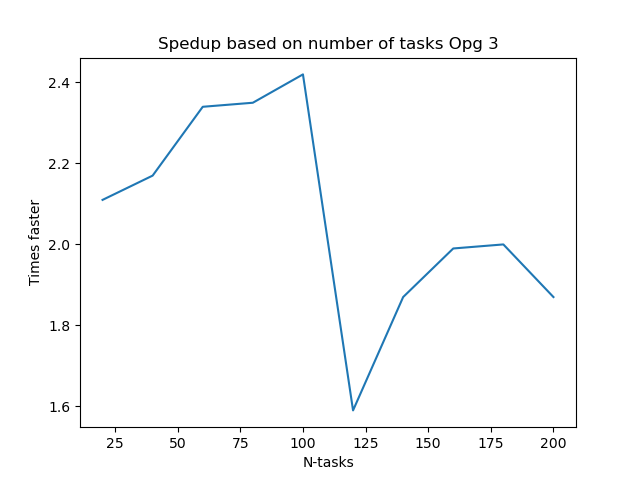
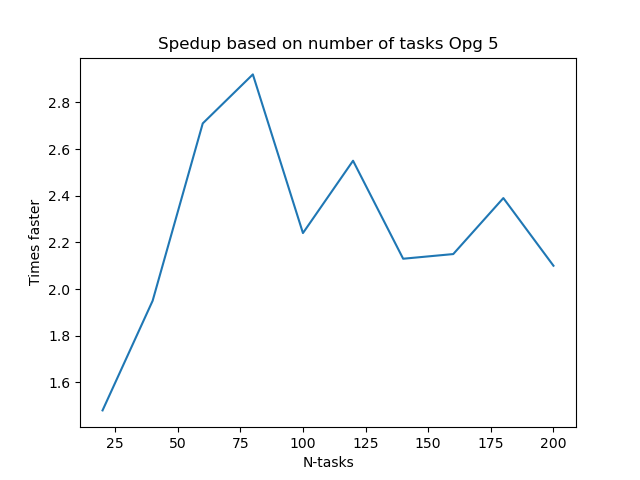
fix

diff --git a/bin/plot3.py b/bin/plot3.py
@@ -2,12 +2,9 @@ import matplotlib.pyplot as plt
 
 x = [20, 40, 60, 80, 100, 120, 140, 160, 180, 200, 300, 400, 1000, 10000]
 # y_3 = [1.67, 2.83, 2.75, 2.11, 2.49, 1.78, 2.72, 2.29, 2.13, 3.25, 2.22, 1.95, 2.62, 2.01] # old
-y_5 = [2.11, 2.17, 2.34, 2.35, 2.42, 1.59, 1.87, 1.99, 2.00, 1.87, 1.92, 1.87, 2.11, 1.95]  # old
+# y_5 = [2.11, 2.17, 2.34, 2.35, 2.42, 1.59, 1.87, 1.99, 2.00, 1.87, 1.92, 1.87, 2.11, 1.95]  # old
 y_3 = [1.56, 1.50, 2.41, 2.54, 2.91, 2.72, 3.28, 2.54, 3.48, 1.59, 2.88, 2.42, 3.43, 1.89]
-
-# y_5 = [
-
-# ]
+y_5 = [1.48, 1.95, 2.71, 2.92, 2.24, 2.55, 2.13, 2.15, 2.39, 2.10, 2.47, 2.09, 2.60, 2.60]
 
 
 def p(y, t):

diff --git a/src/plot3.py b/src/plot3.py
@@ -2,12 +2,9 @@ import matplotlib.pyplot as plt
 
 x = [20, 40, 60, 80, 100, 120, 140, 160, 180, 200, 300, 400, 1000, 10000]
 # y_3 = [1.67, 2.83, 2.75, 2.11, 2.49, 1.78, 2.72, 2.29, 2.13, 3.25, 2.22, 1.95, 2.62, 2.01] # old
-y_5 = [2.11, 2.17, 2.34, 2.35, 2.42, 1.59, 1.87, 1.99, 2.00, 1.87, 1.92, 1.87, 2.11, 1.95]  # old
+# y_5 = [2.11, 2.17, 2.34, 2.35, 2.42, 1.59, 1.87, 1.99, 2.00, 1.87, 1.92, 1.87, 2.11, 1.95]  # old
 y_3 = [1.56, 1.50, 2.41, 2.54, 2.91, 2.72, 3.28, 2.54, 3.48, 1.59, 2.88, 2.42, 3.43, 1.89]
-
-# y_5 = [
-
-# ]
+y_5 = [1.48, 1.95, 2.71, 2.92, 2.24, 2.55, 2.13, 2.15, 2.39, 2.10, 2.47, 2.09, 2.60, 2.60]
 
 
 def p(y, t):
